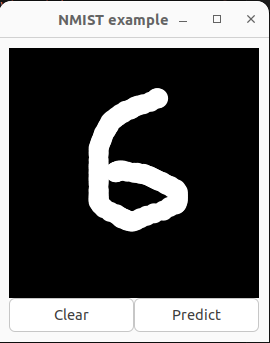
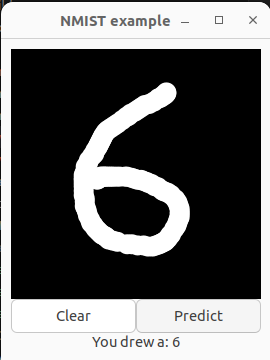
Add label text to show prediction on GUI

diff --git a/src/window.cpp b/src/window.cpp
@@ -39,6 +39,9 @@ Window::Window(SimpleNN nn)
   // height of 1
   my_grid.attach_next_to(predict_button, clear_button, Gtk::POS_RIGHT, 1, 1);
 
+  my_grid.attach_next_to(text_view, clear_button, Gtk::POS_BOTTOM, 2, 1);
+  text_view.set_text("You drew: ");
+
   // Show everything on the window
   show_all_children();
 }
@@ -65,5 +68,8 @@ void Window::on_predict_clicked() {
   std::cout << "Predict clicked!" << std::endl;
   auto drawing = mouse_drawing.export_to_vector(28, 28, 255.0);
   auto result = nn.forward_propagation(drawing);
-  std::cout << "You drew a: " << get_max_index(result) << std::endl;
+  int number = get_max_index(result);
+  std::string display = "You drew a: " + std::to_string(number);
+  std::cout << display << std::endl;
+  text_view.set_text(display);
 }

diff --git a/src/window.h b/src/window.h
@@ -8,6 +8,7 @@
 
 #include <gtkmm/button.h>
 #include <gtkmm/grid.h>
+#include <gtkmm/label.h>
 #include <gtkmm/window.h>
 
 #include "mouse_drawing.h"
@@ -17,6 +18,7 @@
 // it contains a grid widget that houses
 // 2 buttons
 // 1 drawing area
+// 1 text area
 class Window : public Gtk::Window {
  public:
   Window(SimpleNN nn);
@@ -31,6 +33,7 @@ class Window : public Gtk::Window {
   Gtk::Grid my_grid;
   MouseDrawing mouse_drawing;
   Gtk::Button clear_button, predict_button;
+  Gtk::Label text_view;
 
  private:
   // Neural network used to detect the number drawn
